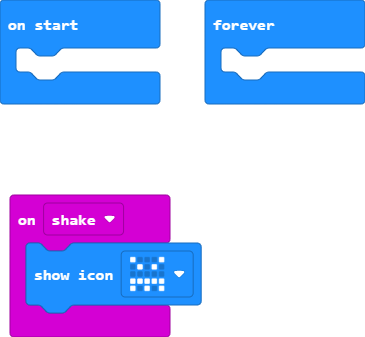
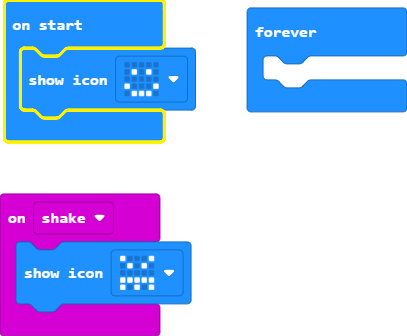
Update main.blocks, main.ts

Changed region(s): [[0.0, 0.0, 0.4822, 0.4464], [0.0, 0.5655, 0.5726, 1.0], [0.5425, 0.0, 1.0, 0.3571]]

diff --git a/main.ts b/main.ts
@@ -1,6 +1,7 @@
 input.onGesture(Gesture.Shake, function () {
     basic.showIcon(IconNames.Angry)
 })
+basic.showIcon(IconNames.Happy)
 basic.forever(function () {
 	
 })
